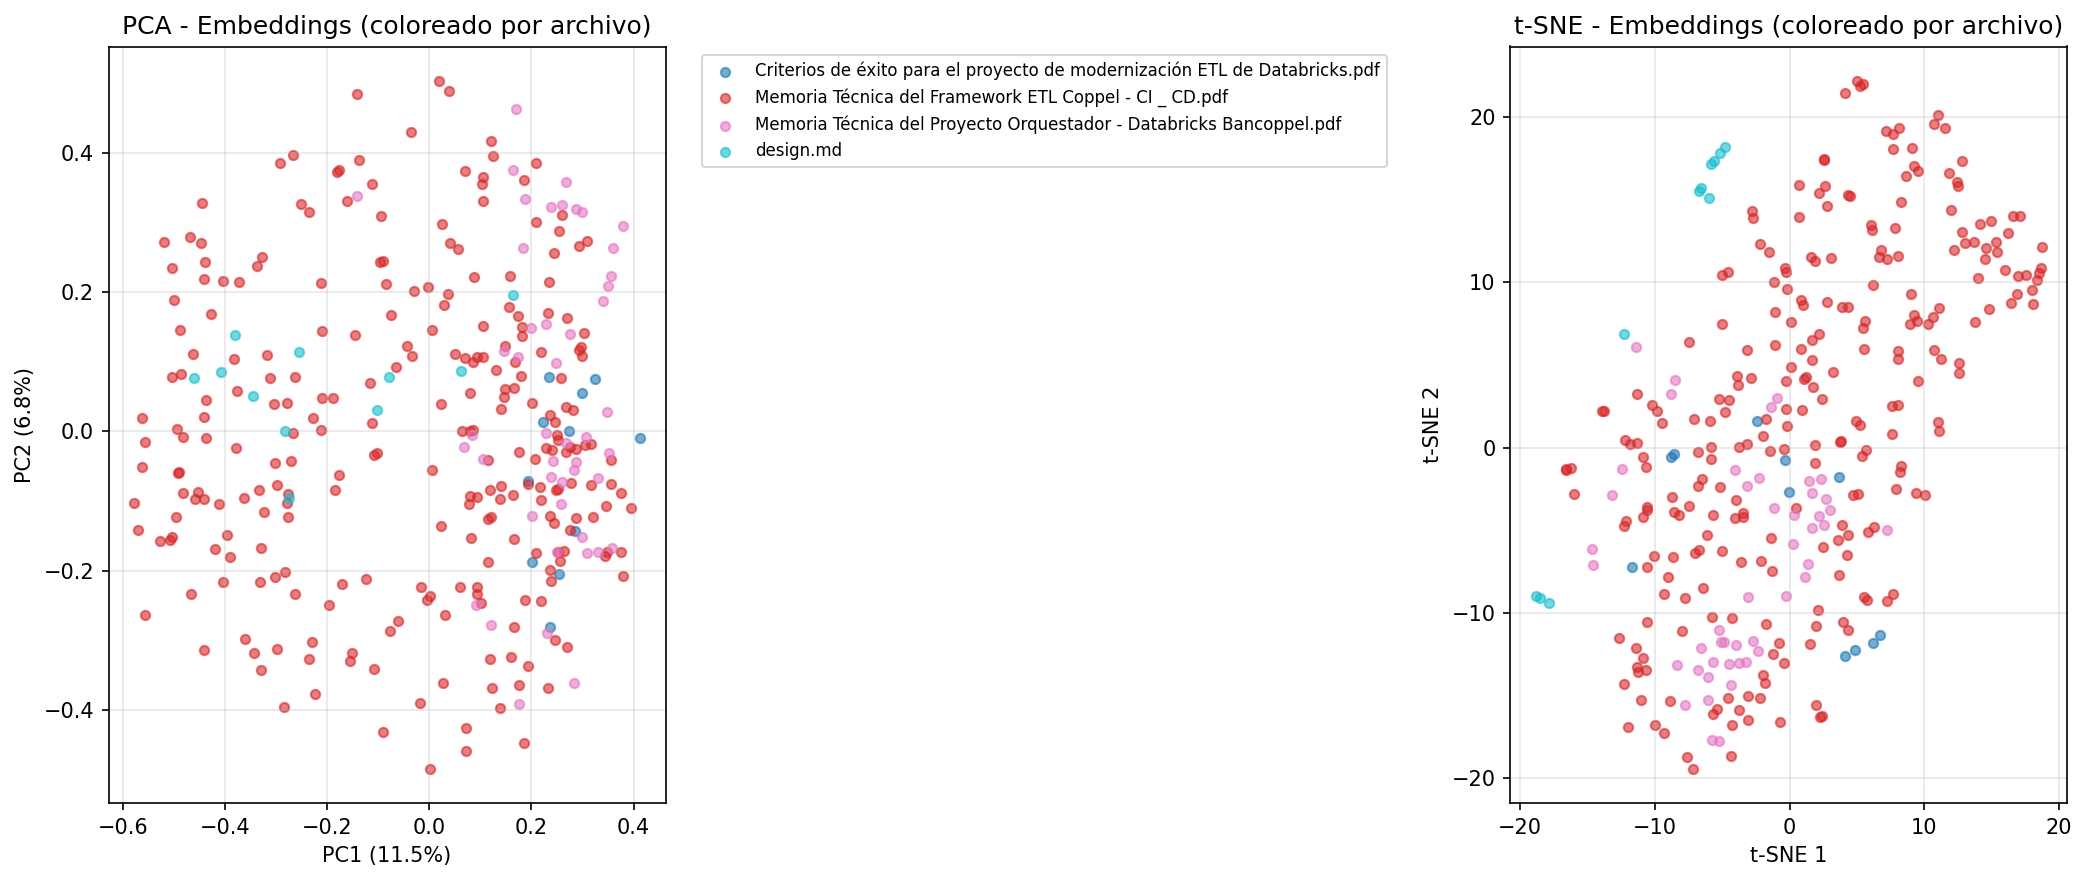
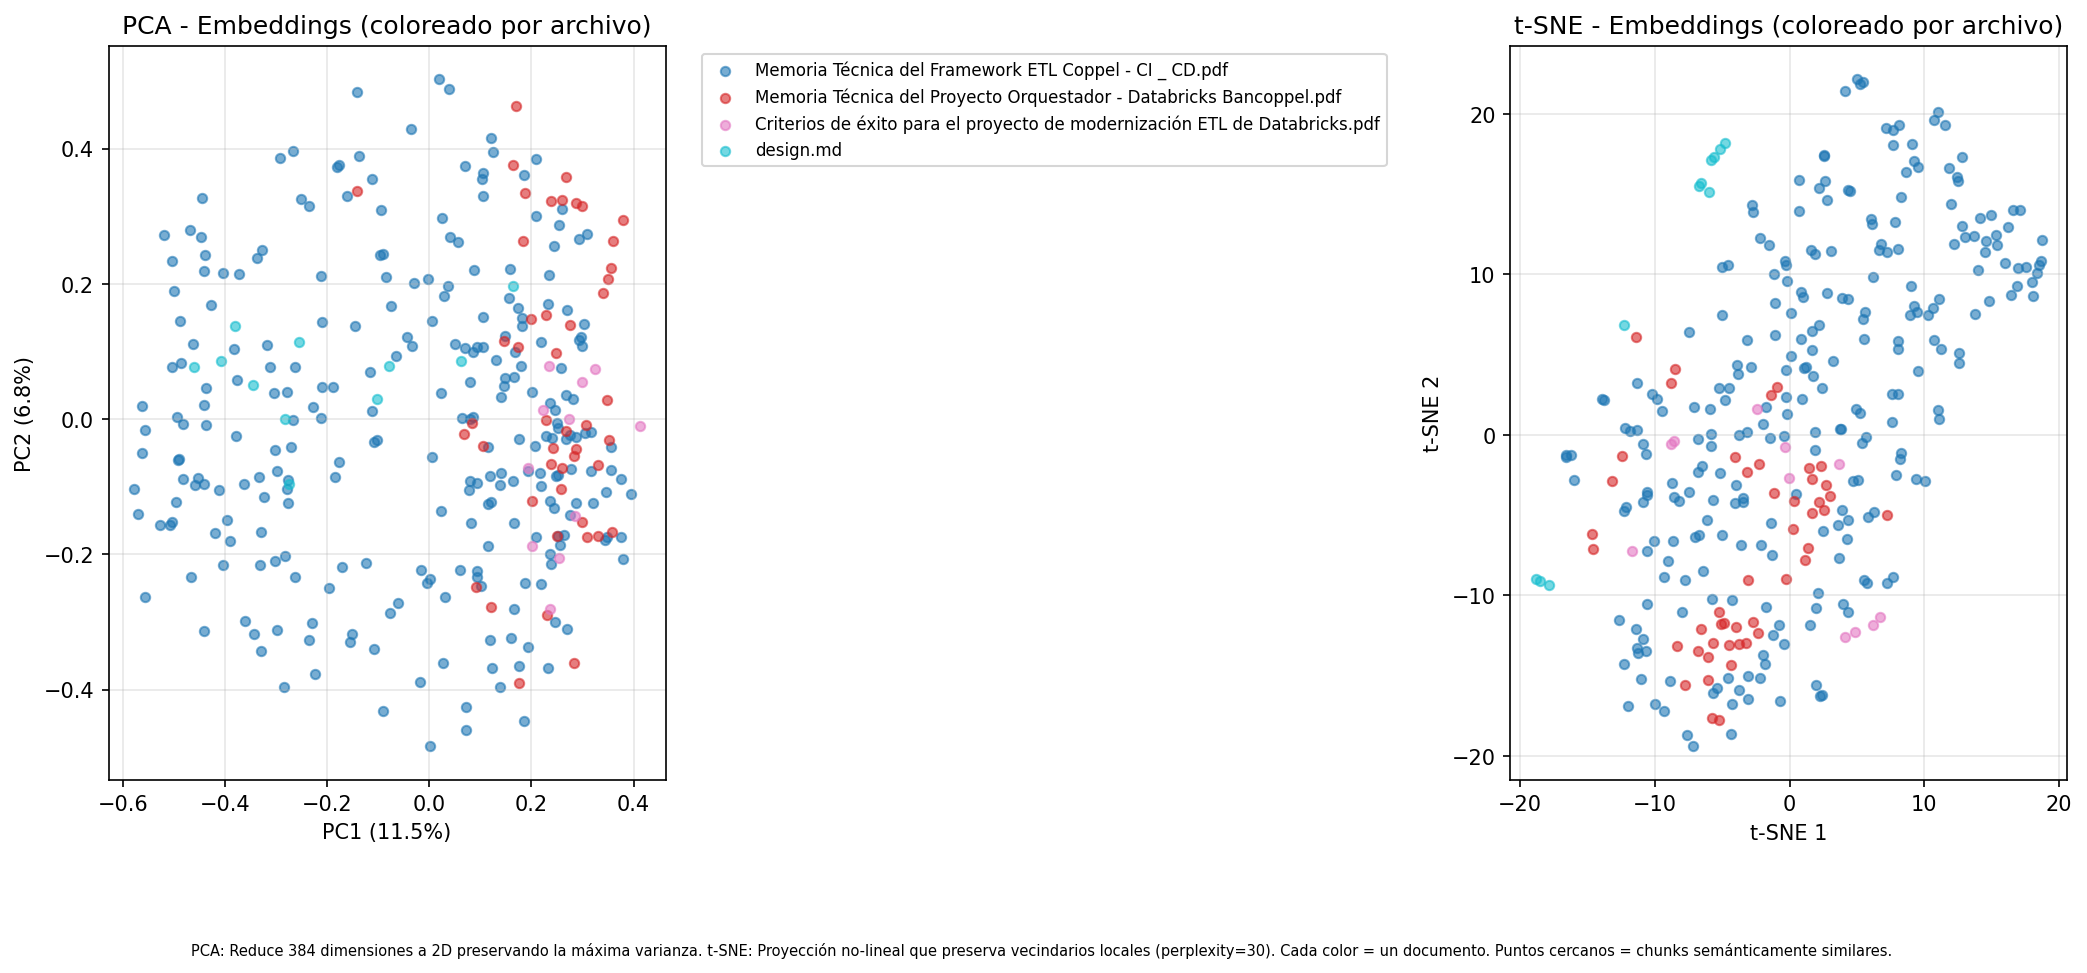
docs: add interpretation notes to all three visualization plots

diff --git a/visualize_vectors.py b/visualize_vectors.py
@@ -80,7 +80,7 @@ def plot_embedding_2d(embeddings: np.ndarray, filenames: list[str]) -> str:
     colors = plt.cm.tab10(np.linspace(0, 1, len(unique_files)))
     file_to_color = {f: colors[i] for i, f in enumerate(unique_files)}
 
-    plt.figure(figsize=(14, 6))
+    plt.figure(figsize=(14, 6.5))
 
     plt.subplot(1, 2, 1)
     for f in unique_files:
@@ -103,7 +103,14 @@ def plot_embedding_2d(embeddings: np.ndarray, filenames: list[str]) -> str:
     plt.ylabel("t-SNE 2")
     plt.grid(alpha=0.3)
 
-    plt.tight_layout()
+    plt.tight_layout(rect=[0, 0.10, 1, 1])
+    plt.figtext(
+        0.5, 0.01,
+        "PCA: Reduce 384 dimensiones a 2D preservando la máxima varianza. "
+        "t-SNE: Proyección no-lineal que preserva vecindarios locales (perplexity=30). "
+        "Cada color = un documento. Puntos cercanos = chunks semánticamente similares.",
+        ha="center", fontsize=7, wrap=True,
+    )
     out_path = "rag_embeddings_2d.png"
     plt.savefig(out_path, dpi=150, bbox_inches="tight")
     plt.close()
@@ -135,12 +142,20 @@ def plot_similarity_heatmap(embeddings: np.ndarray, filenames: list[str], pages:
 
     vmin = float(sim_matrix.min())
     vmax = float(sim_matrix.max())
-    plt.figure(figsize=(10, 8))
+    plt.figure(figsize=(10, 8.5))
     plt.imshow(sim_matrix, cmap="viridis", vmin=vmin, vmax=vmax)
     plt.colorbar(label="Similaridad del Coseno")
     plt.title(f"Matriz de Similaridad - {n_sample} chunks (escala: [{vmin:.2f}, {vmax:.2f}])")
     plt.xlabel("Chunk index")
     plt.ylabel("Chunk index")
+    plt.tight_layout(rect=[0, 0.08, 1, 1])
+    plt.figtext(
+        0.5, 0.01,
+        "Similaridad del Coseno = cos(θ) = (A·B) / (||A||·||B||). Rango: [-1, 1].\n"
+        "1 = vectores idénticos, 0 = ortogonales (sin relación), <0 = opuestos.\n"
+        "Bloques diagonales = chunks del mismo documento (ordenados por archivo y página).",
+        ha="center", fontsize=7, wrap=True,
+    )
     out_path = "rag_similarity_heatmap.png"
     plt.savefig(out_path, dpi=150, bbox_inches="tight")
     plt.close()
@@ -177,7 +192,7 @@ def plot_score_analysis(
 
     all_scores, _ = index.search(query_emb.reshape(1, -1), len(embeddings))
 
-    plt.figure(figsize=(12, 4))
+    plt.figure(figsize=(12, 4.5))
 
     plt.subplot(1, 2, 1)
     plt.hist(all_scores[0], bins=30, alpha=0.7, edgecolor="black")
@@ -187,7 +202,7 @@ def plot_score_analysis(
         linestyle="--",
         label=f"threshold={config.similarity_threshold}",
     )
-    plt.xlabel("Score")
+    plt.xlabel("Score (similaridad coseno con la query)")
     plt.ylabel("Cantidad de chunks")
     plt.title(f'Distribución de Scores: "{query}"')
     plt.legend()
@@ -199,12 +214,20 @@ def plot_score_analysis(
         p_vals, s_vals = zip(*valid)
         plt.scatter(p_vals, s_vals, alpha=0.5, s=10)
         plt.axhline(config.similarity_threshold, color="red", linestyle="--")
-        plt.xlabel("Página")
+        plt.xlabel("Página del documento")
         plt.ylabel("Score")
         plt.title(f'Score por Página: "{query}"')
         plt.grid(alpha=0.3)
 
-    plt.tight_layout()
+    plt.tight_layout(rect=[0, 0.15, 1, 1])
+    plt.figtext(
+        0.5, 0.01,
+        "Score = similaridad coseno entre el embedding de la query y el de cada chunk.\n"
+        "La línea roja (threshold) filtra chunks irrelevantes: solo los que están a la derecha (histograma) "
+        "o arriba (score por página) superan el filtro.\n"
+        "Score por página ayuda a identificar qué secciones del documento contienen la información buscada.",
+        ha="center", fontsize=7, wrap=True,
+    )
     out_path = "rag_score_analysis.png"
     plt.savefig(out_path, dpi=150, bbox_inches="tight")
     plt.close()